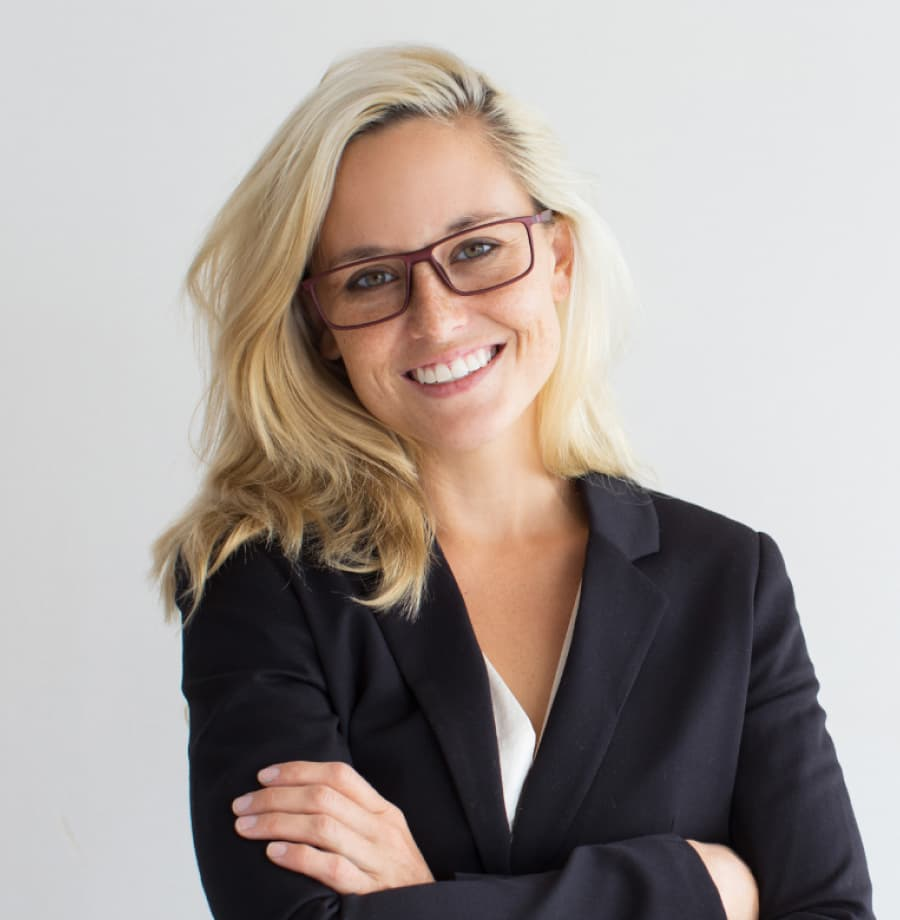
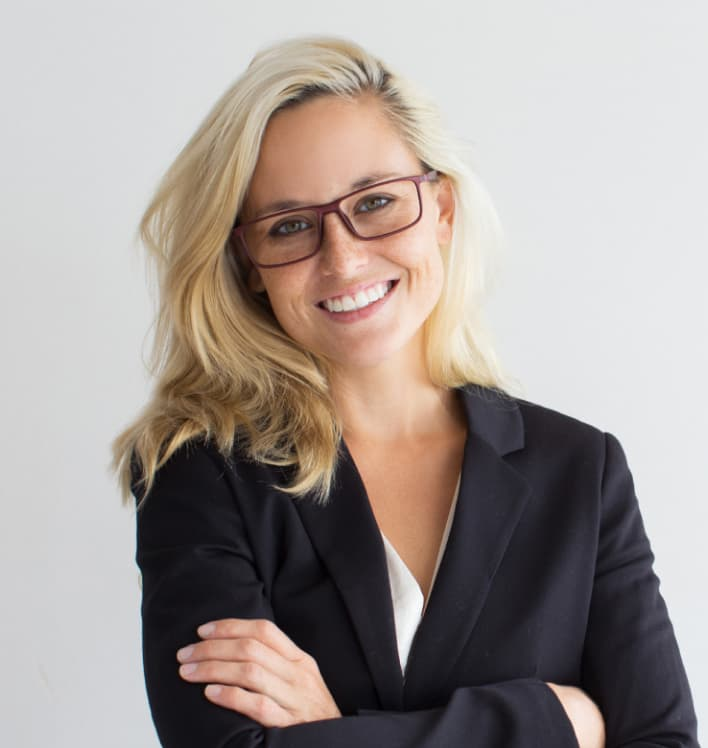
img

diff --git a/index.html b/index.html
@@ -181,17 +181,29 @@
           <ul class="team">
             <li class="team__item">
               <picture>
-                <source srcset="./images/team/ihor/ihor-desk.jpg 1x,
-                /images/team/ihor/ihor-desk-2x.jpg 2x "
-                media="(min-width:1200px)"/ > <source
-                srcset="./images/team/ihor/ihor-tab.jpg 1x,
-                /images/team/ihor/ihor-tab-2x.jpg 2x "
-                media="(min-width:768px)"/ > <source
-                srcset="./images/team/ihor/ihor-mob.jpg 1x,
-                /images/team/ihor/ihor-mob-2x.jpg 2x "
-                media="(min-width:480px)"/ >
+                <source
+                  srcset="
+                    ./images/team/ihor/ihor-desk.jpg   1x,
+                    /images/team/ihor/ihor-desk-2x.jpg 2x
+                  "
+                  media="(min-width:1200px)"
+                />
+                <source
+                  srcset="
+                    ./images/team/ihor/ihor-tab.jpg   1x,
+                    /images/team/ihor/ihor-tab-2x.jpg 2x
+                  "
+                  media="(min-width:768px)"
+                />
+                <source
+                  srcset="
+                    ./images/team/ihor/ihor-mob.jpg   1x,
+                    /images/team/ihor/ihor-mob-2x.jpg 2x
+                  "
+                  media="(min-width:480px)"
+                />
                 <img
-                  src="./images/photo1.jpg"
+                  src="./images/team/ihor/ihor-desk.jpg"
                   alt="фото Игоря Демьяненко"
                   class="team__image"
                 />
@@ -257,22 +269,33 @@
             </li>
             <li class="team__item">
               <picture>
-                <source srcset="./images/team/olha/olha-desk.jpg 1x,
-                /images/team/olha/olha-desk-2x.jpg 2x "
-                media="(min-width:1200px)"/ > <source
-                srcset="./images/team/olha/olha-tab.jpg 1x,
-                /images/team/olha/olha-tab-2x.jpg 2x "
-                media="(min-width:768px)"/ > <source
-                srcset="./images/team/olha/olha-mob.jpg 1x,
-                /images/team/olha/olha-mob-2x.jpg 2x "
-                media="(min-width:480px)"/ >
+                <source
+                  srcset="
+                    ./images/team/olha/olha-desk.jpg   1x,
+                    /images/team/olha/olha-desk-2x.jpg 2x
+                  "
+                  media="(min-width:1200px)"
+                />
+                <source
+                  srcset="
+                    ./images/team/olha/olha-tab.jpg   1x,
+                    /images/team/olha/olha-tab-2x.jpg 2x
+                  "
+                  media="(min-width:768px)"
+                />
+                <source
+                  srcset="
+                    ./images/team/olha/olha-mob.jpg   1x,
+                    /images/team/olha/olha-mob-2x.jpg 2x
+                  "
+                  media="(min-width:480px)"
+                />
                 <img
-                  src="./images/photo2.jpg"
-                  alt="фото Ольги Репиной"
+                  src="./images/team/olha/olha-desk.jpg"
+                  alt="фото Ольга Репина"
                   class="team__image"
                 />
               </picture>
-
               <div class="team-box team__team-box">
                 <h3 class="team-box__title">Ольга Репина</h3>
                 <p lang="en" class="team-box__text">Frontend Developer</p>
@@ -333,13 +356,34 @@
               </div>
             </li>
             <li class="team__item">
-              <img
-                src="./images/photo3.jpg"
-                alt="фото Николая Тарасова"
-                width="270"
-                height="260"
-                class="team__image"
-              />
+              <picture>
+                <source
+                  srcset="
+                    ./images/team/nikolai/nikolai-desk.jpg   1x,
+                    /images/team/nikolai/nikolai-desk-2x.jpg 2x
+                  "
+                  media="(min-width:1200px)"
+                />
+                <source
+                  srcset="
+                    ./images/team/nikolai/nikolai-tab.jpg   1x,
+                    /images/team/nikolai/nikolai-tab-2x.jpg 2x
+                  "
+                  media="(min-width:768px)"
+                />
+                <source
+                  srcset="
+                    ./images/team/nikolai/nikolai-mob.jpg   1x,
+                    /images/team/nikolai/nikolai-mob-2x.jpg 2x
+                  "
+                  media="(min-width:480px)"
+                />
+                <img
+                  src="./images/team/nikolai/nikolai-desk.jpg "
+                  alt="фото Николая Тарасова"
+                  class="team__image"
+                />
+              </picture>
               <div class="team-box team__team-box">
                 <h3 class="team-box__title">Николай Тарасов</h3>
                 <p lang="en" class="team-box__text">Marketing</p>
@@ -400,13 +444,35 @@
               </div>
             </li>
             <li class="team__item">
-              <img
-                src="./images/photo4.jpg"
-                alt="фото Михаила Ермакова"
-                width="270"
-                height="260"
-                class="team__image"
-              />
+              <picture>
+                <source
+                  srcset="
+                    ./images/team/mikhail/mikhail-desk.jpg   1x,
+                    /images/team/mikhail/mikhail-desk-2x.jpg 2x
+                  "
+                  media="(min-width:1200px)"
+                />
+                <source
+                  srcset="
+                    ./images/team/mikhail/mikhail-tab.jpg   1x,
+                    /images/team/mikhail/mikhail-tab-2x.jpg 2x
+                  "
+                  media="(min-width:768px)"
+                />
+                <source
+                  srcset="
+                    ./images/team/mikhail/mikhail-mob.jpg   1x,
+                    /images/team/mikhail/mikhail-mob-2x.jpg 2x
+                  "
+                  media="(min-width:480px)"
+                />
+                <img
+                  src="./images/team/mikhail/mikhail-desk.jpg"
+                  alt="фото Михаила Ермакова"
+                  class="team__image"
+                />
+              </picture>
+
               <div class="team-box team__team-box">
                 <h3 class="team-box__title">Михаил Ермаков</h3>
                 <p lang="en" class="team-box__text">UI Designer</p>
